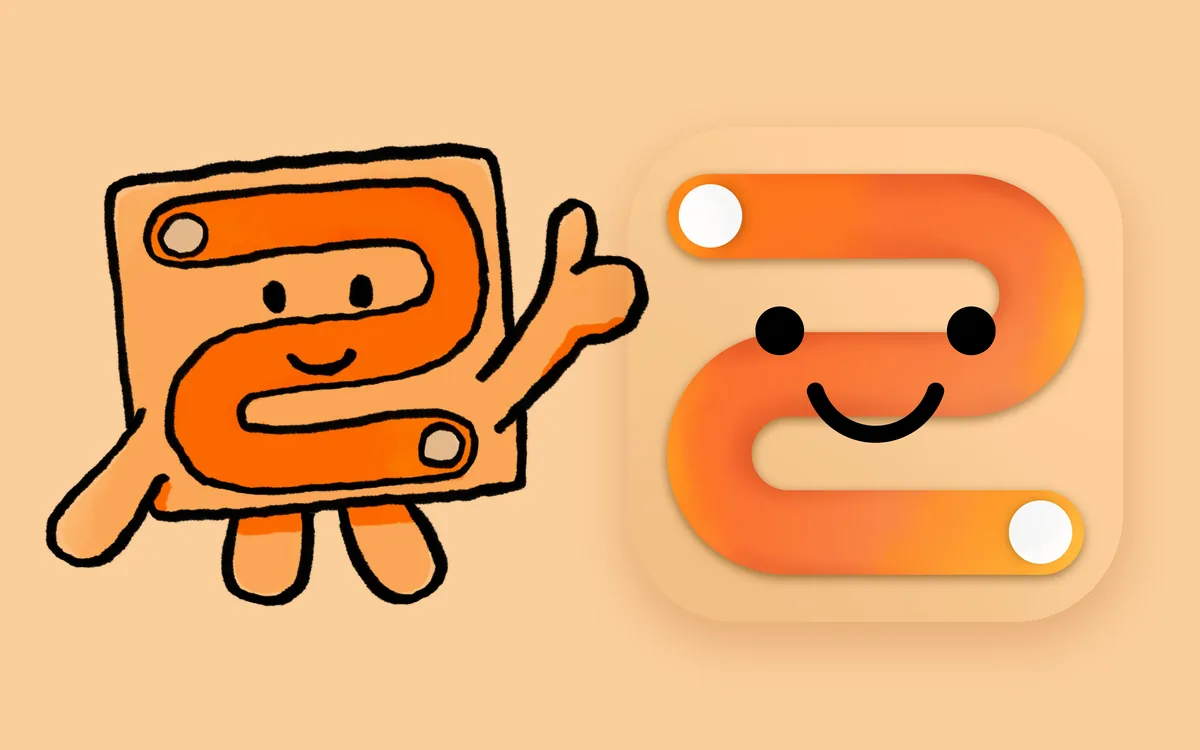
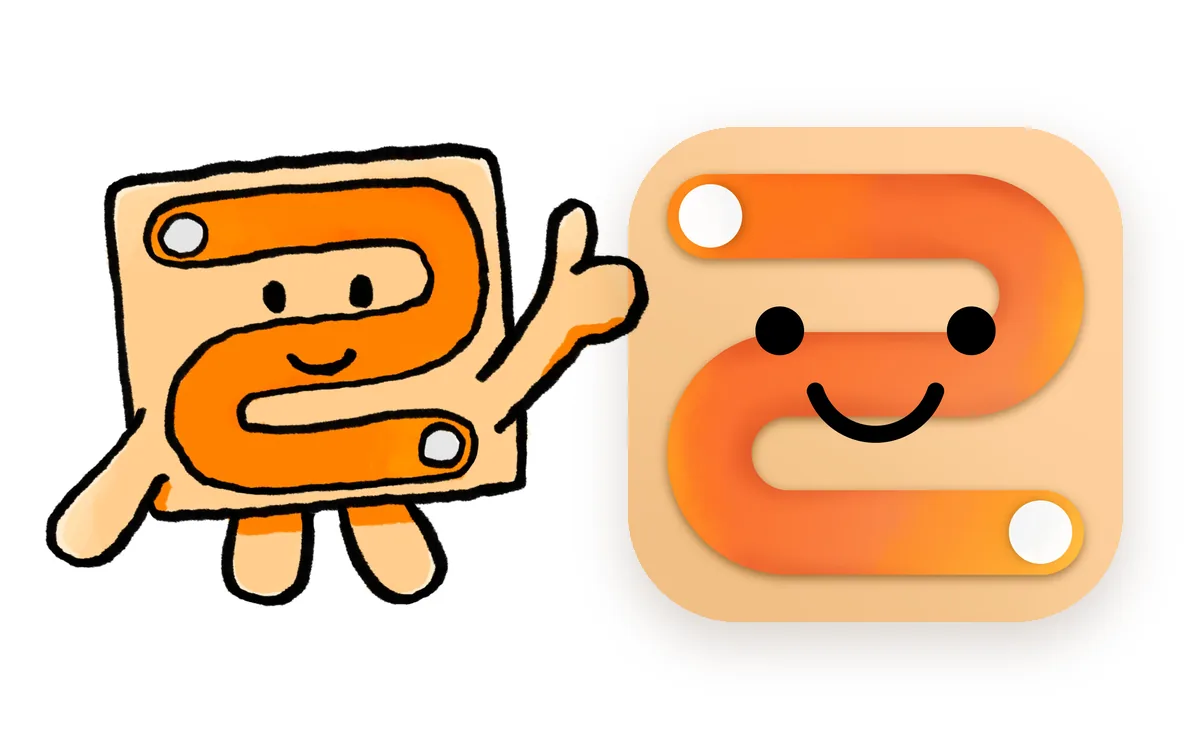
Remove o corte nas cartas do topo (Zip e Freela) e deixa o card do Zip com fundo branco
Claude-Session: https://claude.ai/code/session_01GDQFgbzZFrN6HShjCDjbZt

diff --git a/projeto-freela.html b/projeto-freela.html
@@ -160,8 +160,8 @@
         </div>
         <div class="hero__visual">
           <div class="card-stack">
-            <div class="card-stack__card card-stack__card--back" style="background: #222222"><img src="img/freela/freela-01.webp" alt="" width="1000" height="626" decoding="async" style="object-fit: contain"></div>
-            <div class="card-stack__card card-stack__card--front" style="background: #222222"><video data-loop src="img/freela/freela-motion.mp4" poster="img/freela/freela-poster.webp" width="1600" height="1000" autoplay muted loop playsinline preload="metadata" style="object-fit: contain" aria-label="Animation of the word Freela switching between pixel and script typefaces"></video></div>
+            <div class="card-stack__card card-stack__card--back card-stack__card--fade" style="background: #212121"><img src="img/freela/freela-01.webp" alt="" width="1000" height="626" decoding="async" style="object-fit: contain"></div>
+            <div class="card-stack__card card-stack__card--front card-stack__card--fade" style="background: #212121"><video data-loop src="img/freela/freela-motion.mp4" poster="img/freela/freela-poster.webp" width="1600" height="1000" autoplay muted loop playsinline preload="metadata" style="object-fit: contain" aria-label="Animation of the word Freela switching between pixel and script typefaces"></video></div>
           </div>
         </div>
       </div>

diff --git a/css/style.css b/css/style.css
@@ -727,6 +727,13 @@ body[data-page="projects"] .card { animation: pop 0.6s var(--ease) calc(0.15s + 
 .card-stack__card.ph { position: absolute; background: var(--ph-bg); }
 .card-stack__card--back { top: 3%; left: 3%; --r: -5deg; animation-delay: 0.1s; }
 .card-stack__card--front { right: 3%; bottom: 3%; --r: 3deg; animation-delay: 0.25s; }
+/* Mídia 16:10 com textura dentro da carta 3:4 (object-fit: contain): a imagem ocupa
+   de ~27% a ~73% da altura; as bordas dela somem no fundo, sem corte visível */
+.card-stack__card--fade img,
+.card-stack__card--fade video {
+  -webkit-mask-image: linear-gradient(to bottom, transparent 27%, #000 36%, #000 64%, transparent 73%);
+  mask-image: linear-gradient(to bottom, transparent 27%, #000 36%, #000 64%, transparent 73%);
+}
 .card-stack__card img,
 .card-stack__card video {
   position: absolute;

diff --git a/projeto-zip.html b/projeto-zip.html
@@ -151,7 +151,7 @@
         </div>
         <div class="hero__visual">
           <div class="card-stack">
-            <div class="card-stack__card card-stack__card--back" style="background: #f8c994"><img src="img/zip/zip-02.webp" alt="" width="1900" height="1900" decoding="async" style="object-fit: contain"></div>
+            <div class="card-stack__card card-stack__card--back"><img src="img/zip/zip-hero.webp" alt="" width="1500" height="2000" decoding="async"></div>
             <div class="card-stack__card card-stack__card--front" style="background: #ffffff"><img src="img/zip/zip-01.webp" alt="Hand-drawn Zip mascot waving" width="1900" height="1707" decoding="async" style="object-fit: contain"></div>
           </div>
         </div>
